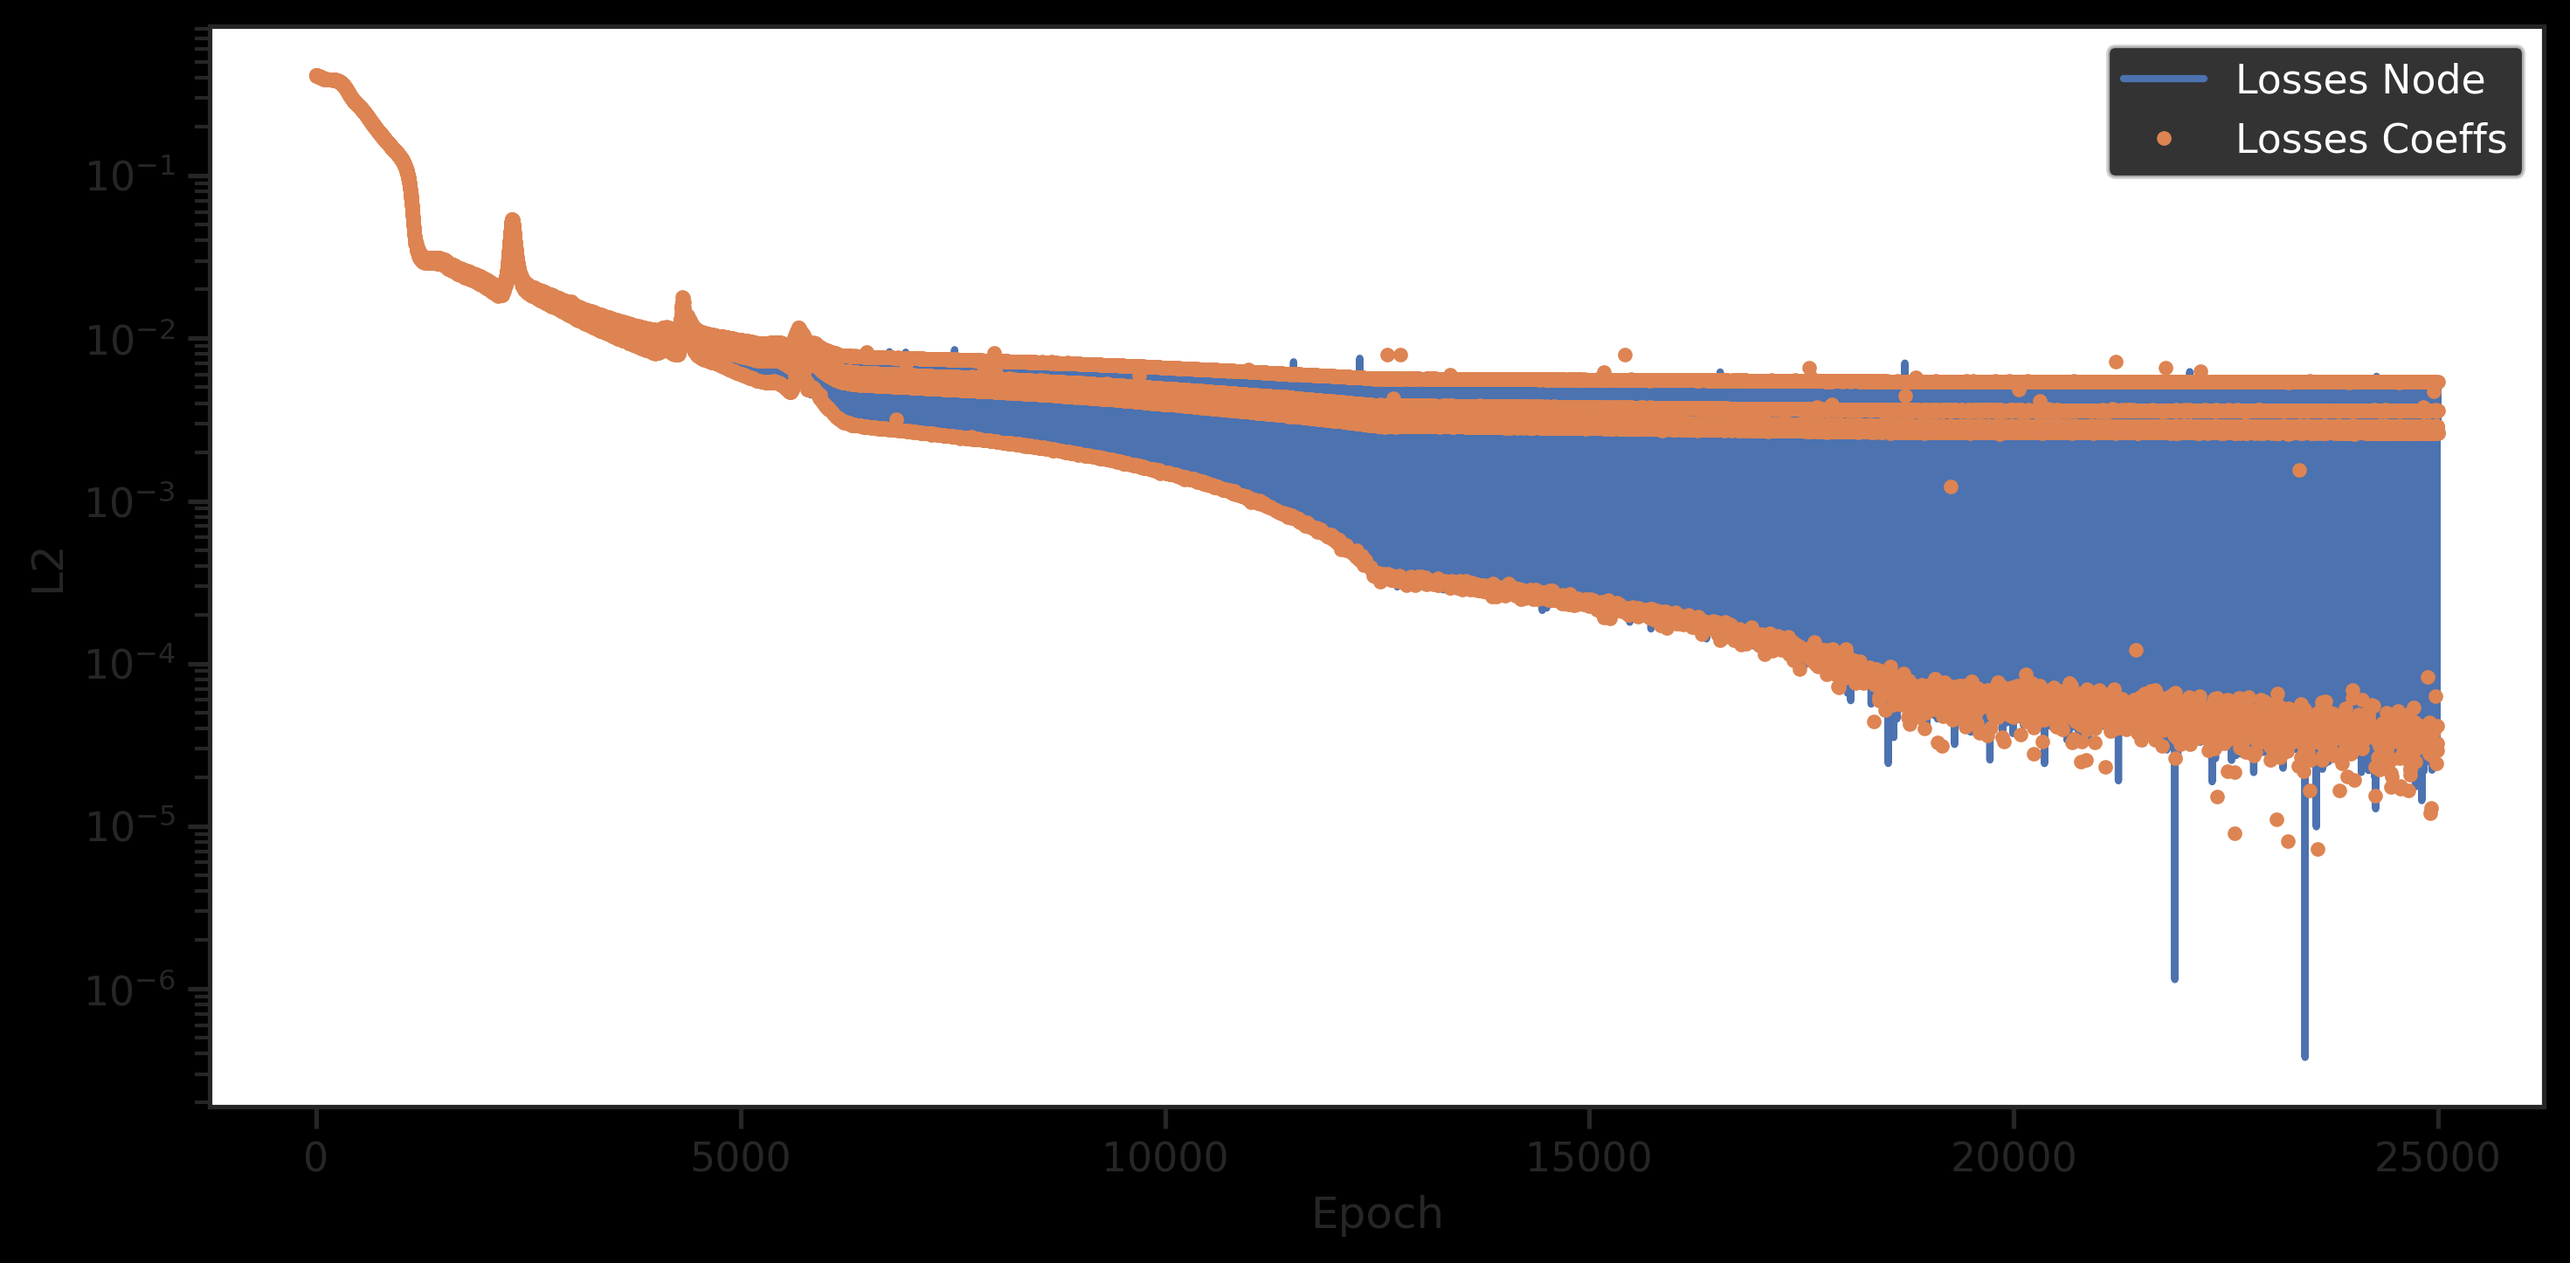
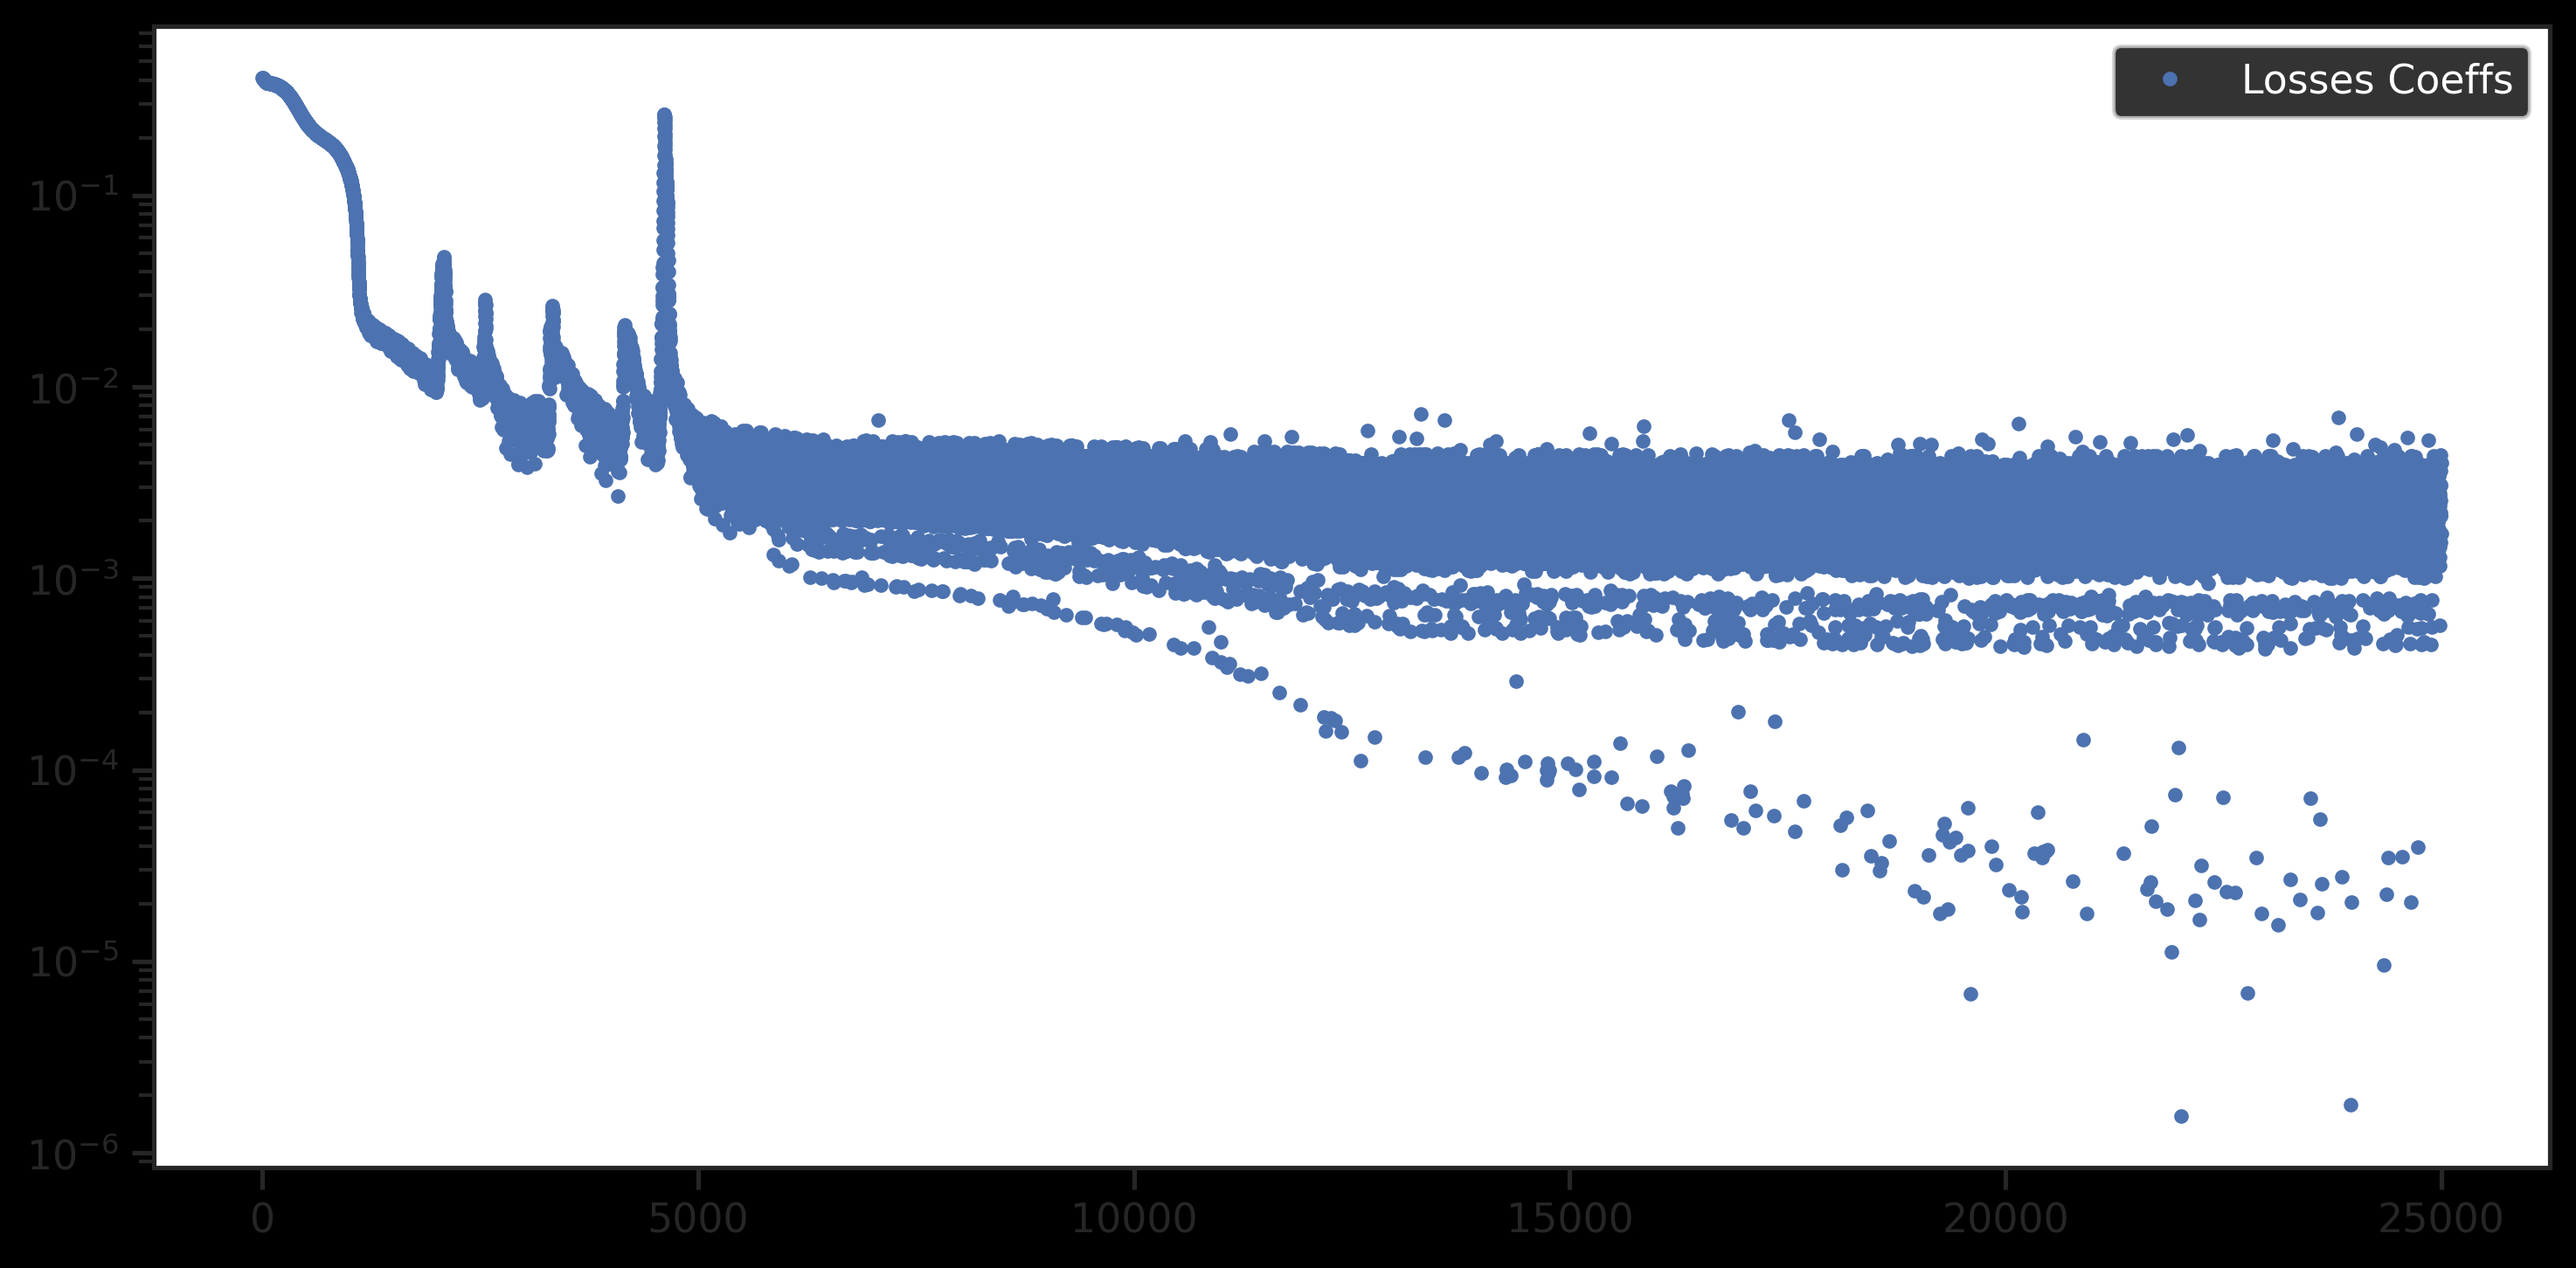
Moving sinode to its own package

diff --git a/examples/duffing/01_sinode.py b/examples/duffing/01_sinode.py
@@ -40,9 +40,10 @@ import time
 
 SEED = 2024
 
-dict_size = 4
+dict_size = 16
 mlp_hidden_size = 32
 mlp_depth = 4
+coeff_threshold = 1e-2
 
 ## Optimiser hps
 init_lr = 1e-4
@@ -52,7 +53,7 @@ epsilon = 0e2  ## For contrastive loss
 eta_inv, eta_cont, eta_spar = 1e-2, 1e-2, 1e-1
 
 ## Training hps
-print_every = 100
+print_every = 1000
 nb_epochs = 25000
 inner_steps_node = 1
 inner_steps_coeffs = 1
@@ -350,6 +351,10 @@ def train_step_coeffs(model, coeffs, batch, opt_state, key):
     updates, opt_state = opt_coeffs.update(grads, opt_state)
     coeffs = eqx.apply_updates(coeffs, updates)
 
+    ## Clip coefficients between -threshold and threshold
+    clip = lambda x: jnp.clip(x, -coeff_threshold, coeff_threshold)
+    coeffs = jax.tree.map(clip, coeffs)
+
     return model, coeffs, opt_state, loss
 
 
@@ -427,16 +432,16 @@ losses_node += abs(min_loss)
 losses_coeffs += abs(min_loss)
 
 fig, ax = plt.subplots(1, 1, figsize=(10, 5))
-ax = sbplot(losses_node, x_label='Epoch', y_label='L2', y_scale="log", label='Losses Node', ax=ax, dark_background=True);
-ax = sbplot(losses_coeffs, ".", y_scale="log", label='Losses Coeffs', ax=ax, dark_background=True);
+# ax = sbplot(losses_node, x_label='Epoch', y_label='L2', y_scale="log", label='Losses Node', ax=ax, dark_background=True);
+ax = sbplot(losses_coeffs[::], ".", y_scale="log", label='Losses Coeffs', ax=ax, dark_background=True);
 
 plt.savefig(f"data/loss.png", dpi=300, bbox_inches='tight')
 plt.legend()
 # plt.show()
 
+# losses_coeffs
 
-
-# model = eqx.tree_deserialise_leaves("data/sinode_model.eqx", model)
+# model = eqx.tree_deise_leaves("data/sinode_model.eqx", model)
 
 
 # %%
@@ -475,14 +480,19 @@ plt.savefig(f"data/test_traj.png", dpi=300, bbox_inches='tight')
 
 #%% 
 
-eqx.tree_serialise_leaves("data/sinode_model_01.eqx", model)
+eqx.tree_serialise_leaves("data/sinode_model_02.eqx", model)
 
 
 
 #%% 
 
-## Print coeffs
-print("Coeffs: \n\t  - Lambdas: \n", coeffs.lambdas, "\n\n\t  - Gammas: \n", coeffs.gammas)
+# ## Print coeffs
+# print("Coeffs: \n\t  - Lambdas: \n", coeffs.lambdas, "\n\n\t  - Gammas: \n", coeffs.gammas)
+print("Coeffs: \n\t  - Lambdas: \n", coeffs.lambdas)
+
+## Print cloeffs lambda with abs > 1e-2
+active_coeffs = jnp.where(jnp.abs(coeffs.lambdas)>1e-2, 1, 0)
+print("Active coefficients lambda: \n", active_coeffs)
 
 ## Count the number of paramters in the model
 params = eqx.filter(model, eqx.is_array)
@@ -494,9 +504,9 @@ print(f"\nNumber of parameters in the model: {nb_params}")
 # print("Model basis functions: ", model.vector_field.basis_funcs.layers[2].weight)
 
 
-## Evaluate the vector field a few points
-print("Vector field at [1,1]: \n", evaluate_funcs_dir(model.vector_field.basis_funcs, jnp.array([1., 1.])))
-print("Vector field at [2,2]: \n", evaluate_funcs_dir(model.vector_field.basis_funcs, jnp.array([2., 2.])))
+# ## Evaluate the vector field a few points
+# print("Vector field at [1,1]: \n", evaluate_funcs_dir(model.vector_field.basis_funcs, jnp.array([1., 1.])))
+# print("Vector field at [2,2]: \n", evaluate_funcs_dir(model.vector_field.basis_funcs, jnp.array([2., 2.])))
 
 
 # %% [markdown]
